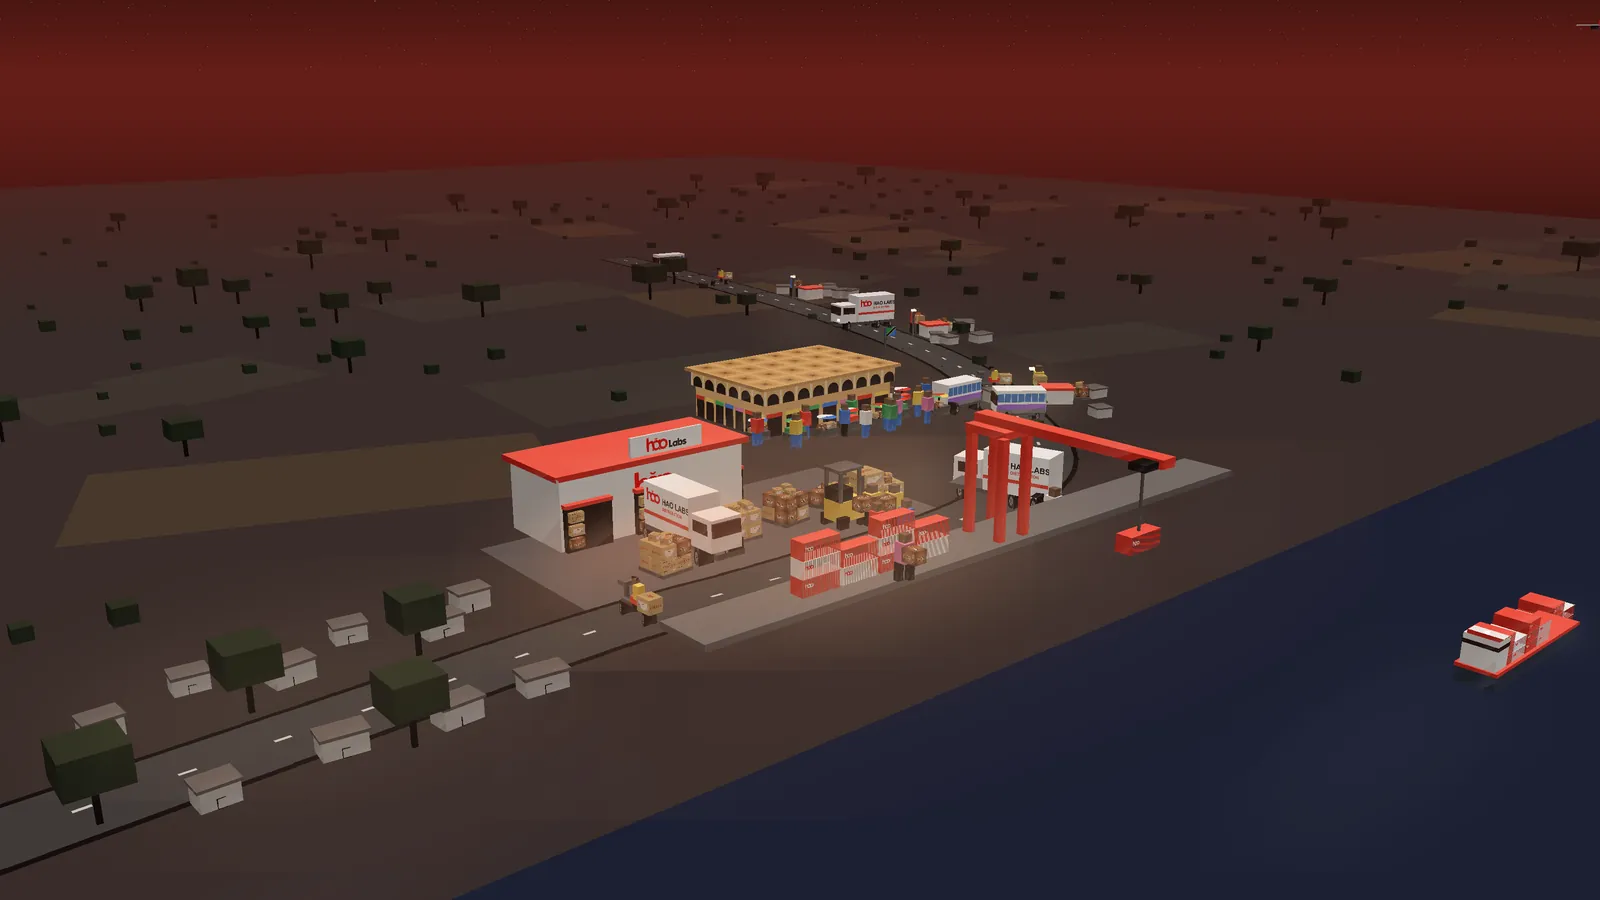
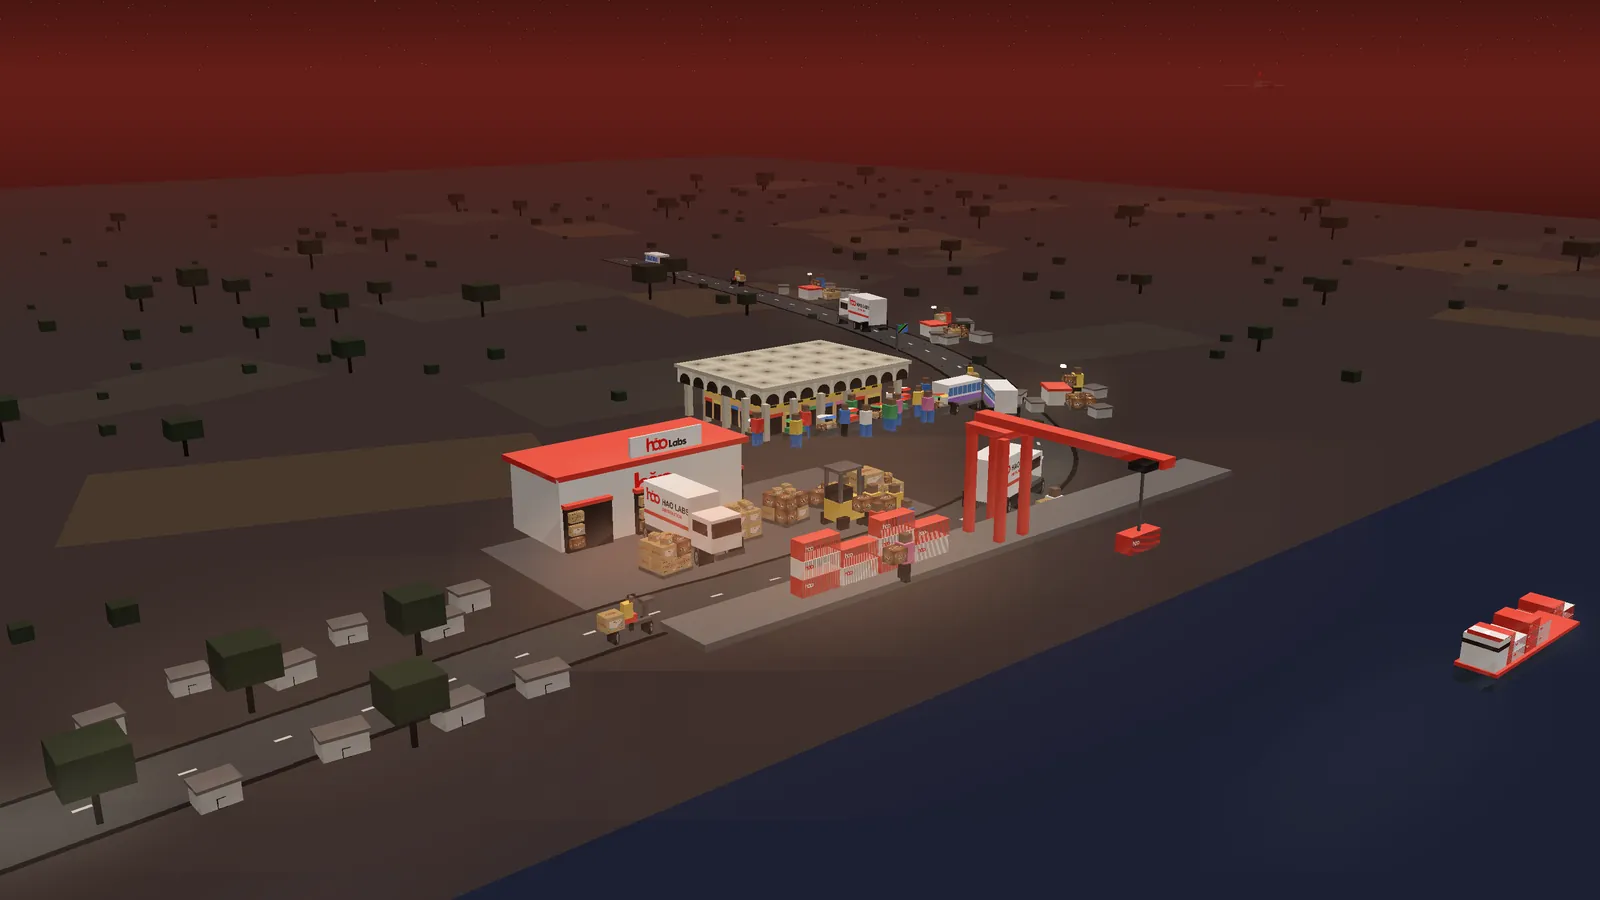
The scene drives the right way, slower, with the plane coming in over the Lab
Vehicles followed the road a quarter turn out (atan2 argument order) and
slid along it broadside; the road slabs are laid along the heading now too.
The loop is 24 seconds instead of 14. The plane flies in from the far right,
low over the plain, growing, and leaves past the camera's shoulder — with a
belly, since it is seen from below. Kariakoo is a canopy of concrete trees
on columns over a set-back block of shops, like the market itself.

Footer line is The Distribution Network; /nino takes the house red and its
Hao Labs card shows the new sign-in.

diff --git a/client/src/pages/Login.jsx b/client/src/pages/Login.jsx
@@ -76,7 +76,7 @@ function Mark({ size = 'md' }) {
    inner boxes, on the pallets, the forklift, the racking, in people's hands,
    on the bike, outside every depot and on the market stalls.
 
-   140 frames, a 14-second loop, as an animated WebP — the site he pointed at
+   240 frames, a 24-second loop, as an animated WebP — the site he pointed at
    plays a 5.6 MB MP4, and there is no ffmpeg on this machine to cut one; the
    frames are kept (--dump) so there can be one later. Two films, one per way
    of holding the phone, and the browser picks by orientation. The poster (one
@@ -187,7 +187,7 @@ function Gate({ children }) {
 function Credit() {
   return (
     <Link to="/nino" className="group inline-flex items-center gap-1 text-white/45 transition-colors hover:text-white">
-      Developed by <span className="font-semibold text-white/75 transition-colors group-hover:text-[#c6f432]">Nino</span>
+      Developed by <span className="font-semibold text-white/75 transition-colors group-hover:text-brand-500">Nino</span>
       <ArrowUpRight className="h-3.5 w-3.5 transition-transform duration-200 group-hover:-translate-y-0.5 group-hover:translate-x-0.5" />
     </Link>
   );
@@ -255,11 +255,12 @@ export default function Login() {
             </ul>
           </div>
 
-          {/* The line that names the system. On a computer it stands in the
+          {/* The line that names the system — "The Distribution Network", not the
+              company again (Nino, 10 Nov 2026). On a computer it stands in the
               corner of the words column; under the card it would print itself
               across a carton. */}
           <p className="flex flex-wrap items-center gap-x-3 gap-y-1 text-xs text-white/40">
-            <span>Hao Labs · Distribution Channels</span>
+            <span>The Distribution Network</span>
             <Credit />
           </p>
         </section>
@@ -305,7 +306,7 @@ export default function Login() {
               tablet the card floats halfway up and the line would print
               itself across a carton. */}
           <p className="absolute inset-x-0 bottom-[max(1rem,env(safe-area-inset-bottom))] z-10 flex flex-wrap items-center justify-center gap-x-2 gap-y-1 px-4 text-center text-xs text-white/45 lg:hidden">
-            <span>Hao Labs · Distribution Channels</span>
+            <span>The Distribution Network</span>
             <Credit />
           </p>
         </section>

diff --git a/client/src/pages/nino.css b/client/src/pages/nino.css
@@ -1,8 +1,9 @@
 /* /nino — Nino's page, ported from the same page on the Vegas Luxury Hotel
    site (Vegas/src/app/nino/nino.module.css). Dark by design, because the
-   work's screenshots carry the colour; one acid accent, which is Nino's own
-   and deliberately NOT Hao Labs' red — this page belongs to the person who
-   built the system, not to the business running it.
+   work's screenshots carry the colour; one accent. It came over with Nino's
+   own acid lime; on 10 Nov 2026 he asked for it to fit this app, so the
+   accent is Hao Labs' red here — the page is reached from this system's
+   sign-in and should feel like the same house.
 
    Everything is scoped under .nino so it cannot leak into the app's own
    stylesheet; the app is a single bundle, unlike the CSS module this came
@@ -14,8 +15,8 @@
   --n-faint: rgb(244 244 241 / 0.38);
   --n-rule: rgb(244 244 241 / 0.1);
   --n-card: rgb(255 255 255 / 0.03);
-  --n-accent: #c6f432;
-  --n-accent-ink: #10130a;
+  --n-accent: #ee3124;
+  --n-accent-ink: #fff5f3;
   position: relative;
   min-height: 100svh;
   background: #0a0a0b;
@@ -31,8 +32,8 @@
   inset: 0;
   pointer-events: none;
   background:
-    radial-gradient(60rem 36rem at 12% -8%, rgb(198 244 50 / 0.07), transparent 60%),
-    radial-gradient(50rem 30rem at 100% 0%, rgb(120 140 255 / 0.05), transparent 60%);
+    radial-gradient(60rem 36rem at 12% -8%, rgb(238 49 36 / 0.12), transparent 60%),
+    radial-gradient(50rem 30rem at 100% 0%, rgb(255 95 75 / 0.06), transparent 60%);
   z-index: 0;
 }
 
@@ -64,13 +65,13 @@
 }
 
 .nino-pulse {
-  box-shadow: 0 0 0 0 rgb(198 244 50 / 0.6);
+  box-shadow: 0 0 0 0 rgb(238 49 36 / 0.6);
   animation: nino-pulse 2.2s ease-out infinite;
 }
 
 @keyframes nino-pulse {
-  70% { box-shadow: 0 0 0 9px rgb(198 244 50 / 0); }
-  100% { box-shadow: 0 0 0 0 rgb(198 244 50 / 0); }
+  70% { box-shadow: 0 0 0 9px rgb(238 49 36 / 0); }
+  100% { box-shadow: 0 0 0 0 rgb(238 49 36 / 0); }
 }
 
 /* The screenshot in its browser frame lifts a little and comes into focus. */

diff --git a/client/src/pages/login.css b/client/src/pages/login.css
@@ -58,7 +58,7 @@
   inset: 0;
   pointer-events: none;
   background:
-    linear-gradient(to bottom, rgba(5, 4, 4, 0.8) 0%, rgba(5, 4, 4, 0.6) 24%, rgba(5, 4, 4, 0.34) 40%, transparent 56%, transparent 84%, rgba(5, 4, 4, 0.7) 100%),
+    linear-gradient(to bottom, rgba(5, 4, 4, 0.74) 0%, rgba(5, 4, 4, 0.5) 24%, rgba(5, 4, 4, 0.3) 40%, transparent 56%, transparent 84%, rgba(5, 4, 4, 0.7) 100%),
     radial-gradient(130% 90% at 50% 62%, transparent 52%, rgba(5, 4, 4, 0.5) 100%);
 }
 

diff --git a/docs/mockups/world.py b/docs/mockups/world.py
@@ -67,6 +67,7 @@ HOUSE = M((206, 196, 190), (160, 150, 144), (184, 174, 168))
 TIN = M((110, 96, 90), (74, 64, 60), (90, 78, 74))
 QUAY = M((120, 110, 106), (84, 76, 72), (100, 92, 88))
 TAN = M((234, 178, 112), (190, 132, 74), (212, 154, 92))
+CONC = M((226, 210, 186), (182, 166, 144), (204, 188, 166))
 BLUE = M((64, 128, 226), (40, 88, 172), (52, 106, 198))
 GREEN = M((70, 176, 96), (40, 124, 64), (54, 150, 78))
 PINK = M((242, 124, 176), (192, 84, 134), (216, 104, 154))
@@ -178,17 +179,17 @@ def panel_sign(w=600, h=144):
 def panel_arcade(w=1200, h=110, n=9):
     """Kariakoo's crown: a row of arches between pale pillars, the way the
     1974 market reads in every painting of it."""
-    im = Image.new("RGBA", (w, h), (234, 178, 112, 255))
+    im = Image.new("RGBA", (w, h), (216, 200, 176, 255))
     d = ImageDraw.Draw(im)
     cell = w / n
     for i in range(n):
         x0 = i * cell
-        d.rectangle([x0, 0, x0 + cell * 0.14, h], fill=(248, 216, 170, 255))
+        d.rectangle([x0, 0, x0 + cell * 0.14, h], fill=(236, 222, 200, 255))
         ax0, ax1 = x0 + cell * 0.2, x0 + cell * 0.94
         r = (ax1 - ax0) / 2
         d.rectangle([ax0, h * 0.3 + r, ax1, h], fill=(38, 24, 20, 255))
         d.ellipse([ax0, h * 0.3, ax1, h * 0.3 + 2 * r], fill=(38, 24, 20, 255))
-    d.rectangle([0, 0, w, h * 0.08], fill=(196, 138, 80, 255))
+    d.rectangle([0, 0, w, h * 0.08], fill=(172, 156, 134, 255))
     return im
 
 
@@ -197,7 +198,10 @@ def panel_shops(w=1200, h=240):
     coloured awning."""
     im = Image.new("RGBA", (w, h), (234, 178, 112, 255))
     d = ImageDraw.Draw(im)
-    top = h * 0.12
+    top = h * 0.16
+    d.rectangle([0, 0, w, top], fill=(238, 196, 60, 255))
+    for x in range(int(w * 0.03), w, int(w * 0.11)):
+        d.rectangle([x, top * 0.3, x + w * 0.05, top * 0.7], fill=(40, 28, 24, 255))
     n = 7
     cell = w / n
     cols = [(238, 49, 36), (255, 214, 92), (70, 176, 96), (64, 128, 226), (242, 124, 176), (238, 49, 36), (255, 214, 92)]
@@ -212,14 +216,14 @@ def panel_shops(w=1200, h=240):
 def panel_roof(w=820, h=580, nx=6, nz=4):
     """The roof from above: the grid of concrete funnels, each a square that
     drains to its own dark centre."""
-    im = Image.new("RGBA", (w, h), (214, 158, 96, 255))
+    im = Image.new("RGBA", (w, h), (206, 190, 166, 255))
     d = ImageDraw.Draw(im)
     cw, ch = w / nx, h / nz
     for i in range(nx):
         for j in range(nz):
             x0, y0 = i * cw, j * ch
-            d.rectangle([x0, y0, x0 + cw, y0 + ch], outline=(236, 190, 130, 255), width=4)
-            for k, c in ((0.3, (200, 144, 84)), (0.16, (176, 122, 68)), (0.06, (120, 80, 44))):
+            d.rectangle([x0, y0, x0 + cw, y0 + ch], outline=(228, 214, 192, 255), width=4)
+            for k, c in ((0.3, (190, 174, 150)), (0.16, (166, 150, 128)), (0.06, (110, 96, 80))):
                 d.rectangle([x0 + cw / 2 - cw * k, y0 + ch / 2 - ch * k, x0 + cw / 2 + cw * k, y0 + ch / 2 + ch * k], fill=c + (255,))
     return im
 
@@ -374,7 +378,11 @@ class Road:
         seg = self.cum[i + 1] - self.cum[i]
         u = (d - self.cum[i]) / seg if seg else 0
         x, z = a[0] + (b[0] - a[0]) * u, a[1] + (b[1] - a[1]) * u
-        yaw = math.degrees(math.atan2(b[0] - a[0], b[1] - a[1]))
+        # yaw turns a thing's nose (+X) toward (cos yaw, -sin yaw) on the
+        # ground, so the heading along (dx, dz) is atan2(-dz, dx). It was
+        # atan2(dx, dz) — a quarter turn out — and every lorry slid along the
+        # road broadside (Nino, 10 Nov 2026: "the cars are moving sideways").
+        yaw = math.degrees(math.atan2(-(b[1] - a[1]), b[0] - a[0]))
         return (x, z), yaw
 
 
@@ -394,10 +402,10 @@ def road_quads():
         (x1, z1), _ = ROAD.at((i + 1) / n)
         cx, cz = (x0 + x1) / 2, (z0 + z1) / 2
         seg = math.hypot(x1 - x0, z1 - z0) + 6
-        q += flat(260, seg, TARMAC, (cx, 0, cz), yaw=yaw, y0=2, layer=-1)
-        q += flat(300, seg, DARK, (cx, 0, cz), yaw=yaw, y0=1, layer=-1)       # the verge
+        q += flat(seg, 260, TARMAC, (cx, 0, cz), yaw=yaw, y0=2, layer=-1)
+        q += flat(seg, 300, DARK, (cx, 0, cz), yaw=yaw, y0=1, layer=-1)       # the verge
         if i % 3 == 0:
-            q += flat(10, seg * 0.5, DASH, (cx, 0, cz), yaw=yaw, y0=3, layer=-1)
+            q += flat(seg * 0.5, 10, DASH, (cx, 0, cz), yaw=yaw, y0=3, layer=-1)
     return q
 
 
@@ -553,15 +561,25 @@ def ship(pos, bob, k=1.15, d=1):
 
 def kariakoo(pos):
     """Kariakoo market, Dar es Salaam's big one (Nino, 10 Nov 2026, holding up
-    three paintings of it): the long tan block of shops, the crown of arches,
-    the roof of concrete funnels, the flag."""
+    three paintings of it). What makes it Kariakoo is the roof: a canopy of
+    concrete trees, each a column flaring into a square funnel, pointed arches
+    between them along the edge, the whole thing floating out past the walls
+    of the shops below. So: a set-back block of shops, a ring of columns in
+    the gallery under the overhang, the band of arches, the slab of funnels,
+    and the flag."""
     q = []
     x, _, z = pos
-    q += r3d.box_quads(760, 150, 520, f(TAN, front=SHOPS_F, back=SHOPS_F, left=SHOPS_S, right=SHOPS_S), pos=pos, y0=0)
-    q += r3d.box_quads(790, 70, 550, f(TAN, front=ARCADE_F, back=ARCADE_F, left=ARCADE_S, right=ARCADE_S), pos=pos, y0=150)
-    q += r3d.box_quads(830, 14, 590, f(TAN, top=ROOF_TEX), pos=pos, y0=220)
-    q += r3d.box_quads(6, 170, 6, f(STEEL), pos=(x + 360, 0, z + 240), y0=234)
-    q += r3d.box_quads(66, 40, 2, f(BLUE, front=FLAG, back=FLAG.transpose(Image.FLIP_LEFT_RIGHT)), pos=(x + 396, 0, z + 240), y0=360)
+    q += r3d.box_quads(700, 140, 470, f(TAN, front=SHOPS_F, back=SHOPS_F, left=SHOPS_S, right=SHOPS_S), pos=pos, y0=0)
+    for cx in range(-400, 401, 160):
+        for cz in (-290, 290):
+            q += r3d.box_quads(26, 164, 26, f(CONC), pos=(x + cx, 0, z + cz), y0=0, sheen=0.0)
+    for cz in (-145, 0, 145):
+        for cx in (-400, 400):
+            q += r3d.box_quads(26, 164, 26, f(CONC), pos=(x + cx, 0, z + cz), y0=0, sheen=0.0)
+    q += r3d.box_quads(880, 70, 640, f(CONC, front=ARCADE_F, back=ARCADE_F, left=ARCADE_S, right=ARCADE_S), pos=pos, y0=164)
+    q += r3d.box_quads(900, 16, 660, f(CONC, top=ROOF_TEX), pos=pos, y0=234)
+    q += r3d.box_quads(6, 170, 6, f(STEEL), pos=(x + 400, 0, z + 280), y0=250)
+    q += r3d.box_quads(66, 40, 2, f(BLUE, front=FLAG, back=FLAG.transpose(Image.FLIP_LEFT_RIGHT)), pos=(x + 436, 0, z + 280), y0=376)
     return q
 
 
@@ -607,6 +625,14 @@ def bus(pos, yaw, spin, layer=0):
     return q
 
 
+def underside(W, D, colour, pos, yaw, y, shade=0.5):
+    """box_quads has no bottom face; a plane overhead shows its belly, so it
+    gets one — two-sided, in shadow."""
+    w, d = W / 2, D / 2
+    cs = [r3d.add(r3d.roty((px, y, pz), yaw), pos) for (px, pz) in ((-w, -d), (w, -d), (w, d), (-w, d))]
+    return [r3d.Quad(cs, color=colour, twosided=True, shade=shade, sheen=0.0)]
+
+
 def plane(pos, yaw, k=1.3):
     """Hao Labs' cargo plane, high over the plain. Flies along +X in its own
     frame; `pos` carries its height in y."""
@@ -622,6 +648,9 @@ def plane(pos, yaw, k=1.3):
         q += part(80 * k, 34 * k, 34 * k, DARK, p, yaw, (30 * k, y - 20 * k, 150 * k * side))
     q += part(90 * k, 100 * k, 8 * k, RED, p, yaw, (-200 * k, y + 40 * k, 0))
     q += part(60 * k, 6 * k, 220 * k, BODY, p, yaw, (-205 * k, y + 48 * k, 0))
+    q += underside(480 * k, 54 * k, (214, 206, 200), p, yaw, y)
+    wo = yaw_about((20 * k, 0, 0), yaw)
+    q += underside(96 * k, 580 * k, (204, 196, 190), (p[0] + wo[0], 0, p[2] + wo[2]), yaw, y + 8 * k, shade=0.45)
     return q
 
 
@@ -784,18 +813,18 @@ def world(t):
         q += person((mx + px, 0, mz + pz), yaw, SHIRTS[i % len(SHIRTS)])
     for i, (x0, dx, ph) in enumerate(((-380, 520, 0.0), (420, -500, 0.4), (-120, 300, 0.7))):
         v = (math.cos((t + ph) * 2 * math.pi) + 1) / 2
-        yaw = 90 if (dx > 0) == (math.sin((t + ph) * 2 * math.pi) < 0) else -90
+        yaw = 0 if (dx > 0) == (math.sin((t + ph) * 2 * math.pi) < 0) else 180
         q += person((mx + x0 + v * dx, 0, mz + 220), yaw, SHIRTS[(i + 3) % len(SHIRTS)], phase=(t + ph) * 7)
     q += bus((mx + 650, 0, mz + 140), 0, 0)
     # two people crossing the apron empty-handed, the ones who have delivered
     for i, (x0, z0, dx, ph) in enumerate(((-700, 560, 1100, 0.15), (500, 600, -1100, 0.65))):
         v = (math.cos((t + ph) * 2 * math.pi) + 1) / 2
-        yaw = 90 if (dx > 0) == (math.sin((t + ph) * 2 * math.pi) < 0) else -90
+        yaw = 0 if (dx > 0) == (math.sin((t + ph) * 2 * math.pi) < 0) else 180
         q += person((x0 + v * dx, 0, z0), yaw, SHIRTS[(i + 1) % len(SHIRTS)], phase=(t + ph) * 7)
     # dockers walking the quay
     for i, (x0, dx, ph) in enumerate(((-300, 900, 0.3), (1200, -700, 0.8))):
         v = (math.cos((t + ph) * 2 * math.pi) + 1) / 2
-        yaw = 90 if (dx > 0) == (math.sin((t + ph) * 2 * math.pi) < 0) else -90
+        yaw = 0 if (dx > 0) == (math.sin((t + ph) * 2 * math.pi) < 0) else 180
         q += worker((x0 + v * dx, 0, SHORE - 40), yaw, (t + ph) * 8, shirt=SHIRTS[(i + 4) % len(SHIRTS)])
     lights.append(((mx, 0, mz + 100), 1100, 420, (255, 190, 140), 0.2))
 
@@ -825,7 +854,7 @@ def world(t):
     trnd = random.Random(5)
     for i, s in enumerate(DEPOTS):
         (x, z), yaw = ROAD.at(s)
-        off = yaw_about((-260, 0, 0), yaw)
+        off = yaw_about((0, 0, 260), yaw)                        # beside the road, not on it
         p = (x + off[0], 0, z + off[2])
         q += depot(p, yaw)
         q += town(p, yaw, trnd)
@@ -859,9 +888,11 @@ def world(t):
         bp = (x + off[0], 0, z + off[2])
         q += bike(bp, yaw, s * ROAD.length / 22.0, 0)
         sh.append((-75, 75, -22, 22, 120, bp, yaw, 0.45))
-    # ── Hao Labs' plane, crossing the sky once a loop, high over the plain ──
-    px = 15000 - t * 21000
-    q += plane((px, 2100, -2600), 180)
+    # ── Hao Labs' plane: in from the far right, low over the plain, growing as
+    # it comes, out past the camera's left shoulder. Heading set from the path.
+    A, B = (13000, 1400, -6000), (-5000, 1700, 1600)
+    pp = tuple(A[i] + (B[i] - A[i]) * t for i in range(3))
+    q += plane(pp, math.degrees(math.atan2(-(B[2] - A[2]), B[0] - A[0])))
     return q, sh, lights, labels
 
 
@@ -980,7 +1011,7 @@ def main():
     ap = argparse.ArgumentParser()
     ap.add_argument("--preview", choices=CAMS.keys())
     ap.add_argument("--loop", choices=CAMS.keys())
-    ap.add_argument("--frames", type=int, default=140)
+    ap.add_argument("--frames", type=int, default=240)
     ap.add_argument("--fps", type=int, default=10)
     ap.add_argument("--t", type=float, default=0.0)
     ap.add_argument("--dump", help="also keep every frame as a PNG in this folder, for cutting a video later")
